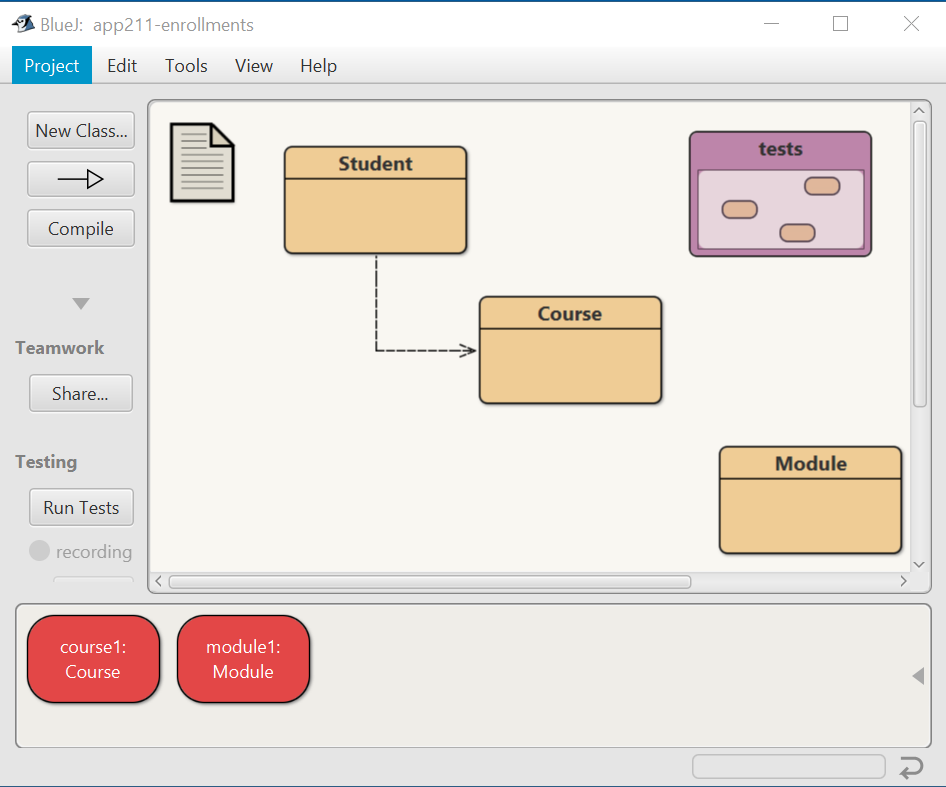
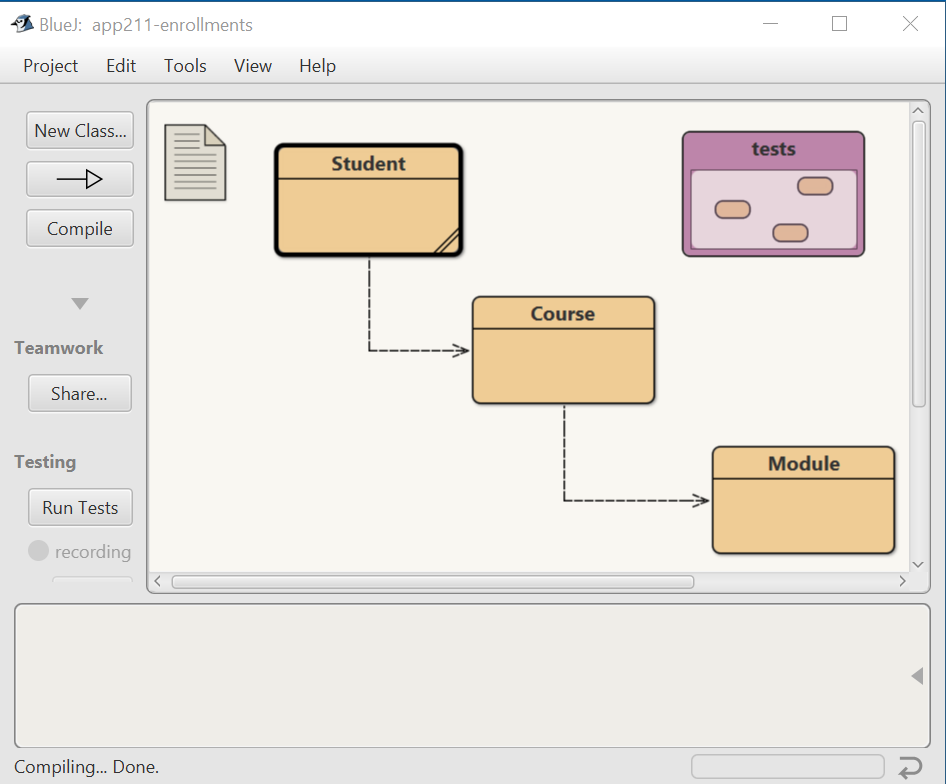
Testing 2 Refinements
Improved screenshot uploaded, edits to [Course] code.

diff --git a/app211-enrollments/Course.java b/app211-enrollments/Course.java
@@ -50,4 +50,9 @@ public class Course
         System.out.println(" --------------------------------");
         System.out.println();
     }
+    
+    public void enrol(Module module)
+    {
+        this.moduletitle = moduletitle;
+    }
 }
